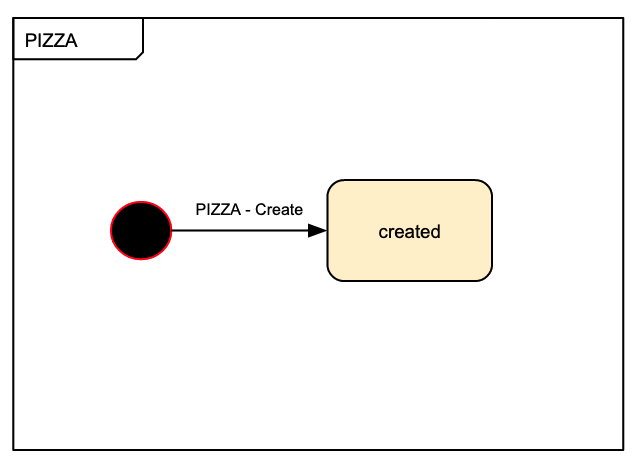
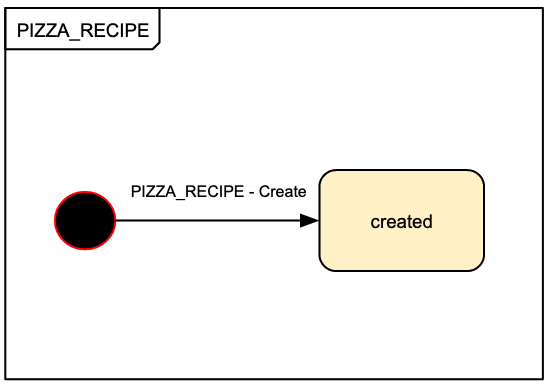
change pizza to pizza_recipe, add order-pizza, add TODOs, cleanup

Changed region(s): [[0.0927, 0.3711, 0.8964, 0.7113], [0.0, 0.0, 0.9891, 0.9897]]

diff --git a/docs/tokenModels/guardRails.md b/docs/tokenModels/guardRails.md
@@ -2,7 +2,7 @@
 
 To ensure integrity of data within transactions (and therefore on chain), it's possible to define custom processes that validate transactions. When a user attempts to run a transaction to create or burn tokens, they also supply a validating process (a process ID and version number). If the validation fails, the transaction will not run. Processes are stored on chain and managed using [`dscp-process-management`](https://github.com/digicatapult/dscp-process-management/).
 
-This method is called Guard Railing - it is difficult, and perhaps counter productive, to over restrict what can be in a transaction, however a few simple rules for each transaction type can greatly improve the quality of data on chain, and reduce typos or tokens with absent data from permanently ending up on chain.
+This method is called Guard Railing - it is difficult, and perhaps counter productive, to over restrict what can be in a transaction, however a few simple rules for each transaction type can greatly improve the quality of data on chain, and reduce typos or tokens with missing data from permanently ending up on chain.
 
 ## Writing processes
 
@@ -13,7 +13,7 @@ Example
 ```JSON
 [
    {
-      "Restriction":{
+      "restriction":{
          "SenderHasInputRole":{
             "index":"0",
             "roleKey":"Supplier"
@@ -21,14 +21,14 @@ Example
       }
    },
    {
-      "Restriction":{
+      "restriction":{
          "FixedNumberOfInputs":{
             "numInputs":"1"
          }
       }
    },
    {
-      "Op":"And"
+      "op":"And"
    }
 ]
 ```
@@ -52,28 +52,40 @@ One of the simplest transactions is the creation of the initial state of an enti
 | `<File>` image: `image.png`     |
 | `<File>` dimensions: `spec.pdf` |
 
-Based on the information above it's possible to define a set of restrictions. First as this is adding something new, there are 0 inputs and 1 output:
+Based on the information above it's possible to define a set of restrictions. First, as this is adding something new, there are 0 inputs and 1 output:
 
 ```json
-{
-  "FixedNumberOfInputs": {
-    "num_inputs": 0
+[
+  {
+    "restriction": {
+      "FixedNumberOfInputs": {
+        "num_inputs": 0
+      }
+    }
   },
-  "FixedNumberOfOutputs": {
-    "num_outputs": 1
+  {
+    "restriction": {
+      "FixedNumberOfOutputs": {
+        "num_outputs": 1
+      }
+    }
   }
-}
+]
 ```
 
 The transaction is intended to be run by galleries:
 
 ```json
-{
-  "SenderHasOutputRole": {
-    "index": 0,
-    "role_key": "Gallery"
+[
+  {
+    "restriction": {
+      "SenderHasOutputRole": {
+        "index": 0,
+        "role_key": "Gallery"
+      }
+    }
   }
-}
+]
 ```
 
 If more than one party could run the transaction, multiple instances of the above restriction with different `role_key`s could be set combined with the `or` boolean.
@@ -81,59 +93,74 @@ If more than one party could run the transaction, multiple instances of the abov
 Presence of the other roles is enforced with:
 
 ```json
-{
-  "OutputHasRole": {
-    "index": 0,
-    "role_key": "Owner"
+[
+  {
+    "restriction": {
+      "OutputHasRole": {
+        "index": 0,
+        "role_key": "Owner"
+      }
+    }
   },
-  "OutputHasRole": {
-    "index": 0,
-    "role_key": "Artist"
-  }
-}
+  {
+    "restriction": {
+      "OutputHasRole": {
+        "index": 0,
+        "role_key": "Artist"
+      }
+    }
+  },
+  { "op": "or" }
+]
 ```
 
 This is a transaction to specifically make a `new` `SCULPTURE` token with `version: 0`:
 
 ```json
-{
-  "FixedOutputMetadataValue": {
-    "index": 0,
-    "metadata_key": "state",
-    "metadata_value": "new"
+[
+  {
+    "FixedOutputMetadataValue": {
+      "index": 0,
+      "metadata_key": "state",
+      "metadata_value": "new"
+    }
   },
-  "FixedOutputMetadataValue": {
-    "index": 0,
-    "metadata_key": "type",
-    "metadata_value": "SCULPTURE"
+  {
+    "FixedOutputMetadataValue": {
+      "index": 0,
+      "metadata_key": "type",
+      "metadata_value": "SCULPTURE"
+    }
   },
-  "FixedOutputMetadataValue": {
-    "index": 0,
-    "metadata_key": "version",
-    "metadata_value": "0"
+  {
+    "FixedOutputMetadataValue": {
+      "index": 0,
+      "metadata_key": "version",
+      "metadata_value": "0"
+    }
   }
-}
+]
 ```
 
 The token is expected to include image and dimensions files:
 
 ```json
-{
-  "FixedOutputMetadataValueType": {
-    "index": 0,
-    "metadata_key": "image",
-    "metadata_value_type": "File"
+[
+  {
+    "FixedOutputMetadataValueType": {
+      "index": 0,
+      "metadata_key": "image",
+      "metadata_value_type": "File"
+    }
   },
-  "FixedOutputMetadataValueType": {
-    "index": 0,
-    "metadata_key": "dimensions",
-    "metadata_value_type": "File"
+  {
+    "FixedOutputMetadataValueType": {
+      "index": 0,
+      "metadata_key": "dimensions",
+      "metadata_value_type": "File"
+    }
   }
-}
+]
 ```
 
-The restrictions could be chained with `and` booleans to enforce they all must pass to validate the token.
-
-### Handling arrays
-
-Many restrictions refer to a specific index of an input or output to validate.
+The restrictions could be chained with `and` booleans to enforce they all must pass to validate the token e.g. `[restriction0, restriction1, op: and, restriction2, op: and, restriction3, op:and ...]`.

diff --git a/docs/tokenModels/example.md b/docs/tokenModels/example.md
@@ -4,25 +4,25 @@
 
 ## Real world story
 
-This example will look at the simplified process of a customers orders of pizzas from restaurants. A token model is only as good as the real world narrative it's based on. An example of the level of detail required about a process before a token model can be made:
+This example will look at the simplified process of customers ordering pizzas from restaurants. A token model is only useful if its based on an accurate abstraction of a real world flow of events. An example of the level of detail required about a process before a token model can be made:
 
 - There are two parties involved: customer and restaurant.
 - There is a menu of pizzas, defined by the restaurant.
-- An order can contain any number of pizzas.
+- An order can contain one or more pizzas.
 - Orders can be rejected by the restaurant, after which the customer can edit the order.
-- Orders can be cancelled, but only the restaurant can cancel once the order is submitted.
+- Orders can only be cancelled by the customer before submitting.
 
 ## Building a token model
 
 ### Roles
 
-Roles are consistent across all token types so must be defined first. Part of guard railing transactions is defining which roles can run which transactions. Here there are two types of role, `Customer` and `Restaurant`. `Restaurant` transactions are keyed as `black` and `Customer` as `red`.
+Roles are consistent across all token types so must be defined first. Part of guard railing transactions is defining which roles can run which transactions. Here there are two types of role, `Customer` and `Restaurant`. `Restaurant` transactions are keyed as `black` and `Customer` as `red`. These are only role keys, not a specific customer or restaurant, any number of accounts on the chain can take the role of a customer or restaurant within a process.
 
 ![example roles](../../assets/tokenModels/example-roles.png)
 
 ### First token type
 
-A restaurant sets a menu of pizzas - a token type of `PIZZA` with an initial `PIZZA - create` transaction run by a `Restaurant` (note black arrow). This mints a `PIZZA` token in the `created` state. For now, other metadata (e.g. `name`, `toppings`) about the pizza isn't important.
+A restaurant sets a menu of pizzas - a token type of `PIZZA_RECIPE` with an initial `PIZZA_RECIPE - create` transaction run by a `Restaurant` (note black arrow). This mints a `PIZZA_RECIPE` token in the `created` state. For now, other metadata (e.g. `name`, `toppings`) about the pizza isn't important.
 
 ![example pizza create](../../assets/tokenModels/example-pizza-create.png)
 
@@ -42,7 +42,11 @@ Next add transactions to append and remove pizzas from an order - one at a time.
 
 ![example append remove](../../assets/tokenModels/example-append-remove.png)
 
-If orders of > 10 pizzas were regularly expected, additional transactions could be added such as `ORDER - Append (10) PIZZA`.
+Each append creates a new `Order-Pizza` token, which is retired if the `Order-Pizza` is later removed from the order.
+
+![example order pizza](../../assets/tokenModels/example-order-pizza.png)
+
+If orders of > 10 pizzas are regularly expected, additional transactions could be added such as `ORDER - Append (10) PIZZA`.
 
 ### Shared (hierarchical) states
 
@@ -58,14 +62,32 @@ Alternatively, it could be argued that having separate `created` and `rejected` 
 
 ![example simple reject](../../assets/tokenModels/example-simple-reject.png)
 
-The best approach depends on the use case and domain knowledge. Perhaps it is important to track the number of `rejected` orders.
+The best approach depends on the use case and domain knowledge. Perhaps `rejected` orders have extra metadata that shouldn't be on a `created` order.
 
 ### End state
 
-Finally, tokens need an end state so they can be 'retired'. A pizza can only be retired by the restaurant that designed it.
+Finally, tokens need an end state so they can be 'retired'. A `PIZZA_RECIPE` can only be retired by the restaurant that designed it.
 
 ![example pizza retire](../../assets/tokenModels/example-pizza-retire.png)
 
-An order can be retired by either a customer or a restaurant, depending on its state.
+An order can be cancelled by a customer before submission, or a order can be completed by a restaurant (there would likely be more steps for completion but this is a simple example).
 
-![example order cancel](../../assets/tokenModels/example-order-cancel.png)
+![example order end](../../assets/tokenModels/example-order-end.png)
+
+Logically the end of life for orders would also be the end of life for `ORDER-PIZZA` tokens.
+
+![example order pizza end](../../assets/tokenModels/example-order-pizza-end.png)
+
+## Transactions
+
+//TODO Deriving transaction inputs/outputs/metadata from token models diagrams
+
+- PIZZA_RECIPE - Create
+- PIZZA_RECIPE - Retire
+- ORDER - Create
+- ORDER - Append (1) PIZZA
+- ORDER - Remove (1) PIZZA
+- ORDER - Cancel
+- ORDER - Submit
+- ORDER - Reject
+- ORDER - Complete

diff --git a/docs/tokenModels/components.md b/docs/tokenModels/components.md
@@ -1,4 +1,4 @@
-# Token Model Components
+# Token Model Diagram Components
 
 A token model is made of various components:
 
@@ -23,6 +23,8 @@ The start and end point for a token type, effectively the `null` state.
 ## Transactions
 
 The colour of a transaction arrow indicates which role will run the transaction.
+
+//TODO How to display transactions that can be run by more than one role
 
 ### Status transaction
 
